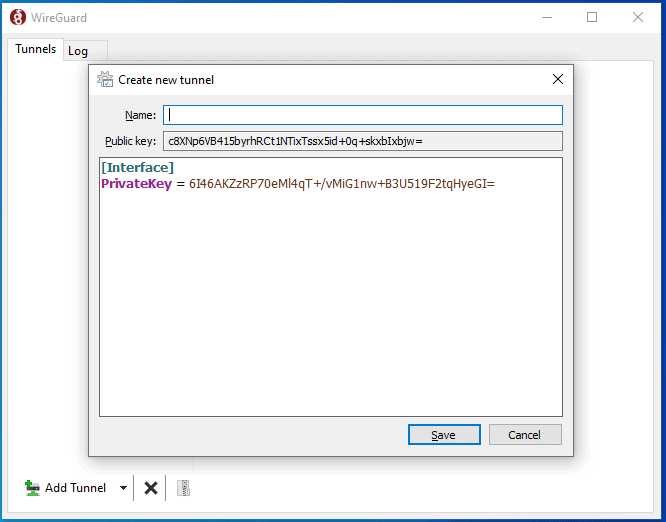
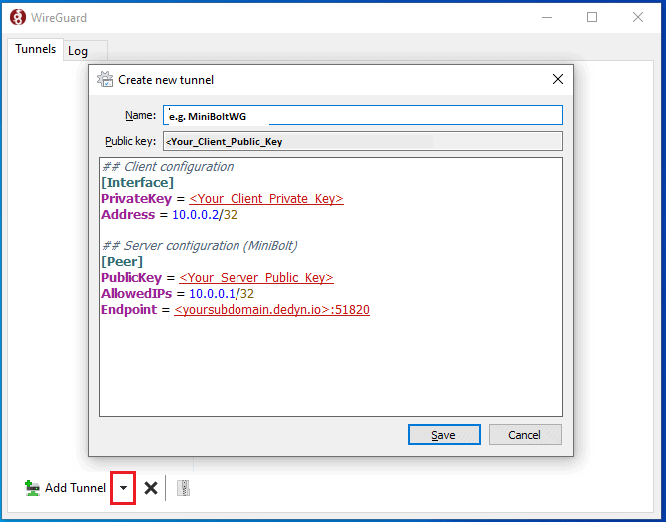
Update

diff --git a/guide/bonus/system/wireguard-VPN.md b/guide/bonus/system/wireguard-VPN.md
@@ -191,7 +191,7 @@ You now have a free domain **(yoursubdomain.dedyn.io)** that always points to yo
 
 Remember to have forwarded the `"51820"` port and the `"UDP"` protocol of your router to the local IP of your MiniBolt, previously indicated in the [prerequisites](#prerequisites) section.
 
-### Install WireGuard VPN
+### Install WireGuard VPN on server
 
 * Update the packages and upgrade to keep up to date the OS
 
@@ -275,6 +275,8 @@ We won't do this on the client because we want it to be able to connect to the V
 
 Start by visiting [WireGuard's installation page](https://www.wireguard.com/install) and download and install the relevant version of WireGuard for your OS.
 Here, we'll assume your client is a Linux desktop OS; because it is the most similar to setting up the server.
+
+### Install Wireguard VPN on client
 
 * On Linux regular computer, for instance, you do this by simply installing the `"Wireguard VPN"` package:
 
@@ -482,7 +484,7 @@ To do that you need install the `qrencode` package on your regular computer with
 
 Now, you can convert the "wg0.conf" file to a QR code like so. 
 
-* Up to root user to create a temporaly root session
+* Change to root user to create a temporaly root session
 
   ```sh
   $ sudo su
@@ -522,7 +524,17 @@ For each additional client, you must install the WireGuard software and you coul
 
 ### Configure Wireguard VPN client on Windows
 
+* Download and install Wireguard [Windows version](https://download.wireguard.com/windows-client/wireguard-installer.exe)
+
+* Hit on the little arrow down on the bottom left and select "Add empty tunnel"
+
 ![Wireguard Windows](../../../images/wireguard-windows.png)
+
+* Paste the entire [Configure Wireguard VPN Client](#configure-wireguard-vpn-client) content of the "wg0.conf" file in the big text box and push on "Save"
+
+* Click on "Activate" to enable the VPN connection
+
+* Test it creating a new SSH connection to MiniBolt for example, with VPN IP address.
 
 ## Configure additional servers
 
@@ -537,10 +549,10 @@ Some routers have support for Dynamic DNS providers like NO-IP or deSEC, out of 
 
 If your router does not have your DDNS provider preconfigured, the configuration procedure will depend on the specific type of router which is why we can't provide a tutorial for all of them. However, most of the time it boils down to entering the following details in your router configuration:
 
-   * Provider: select on the drop-down the name of the provider, e.g. www.no-ip.com
-   * Domain name: subdomain you want to update, e.g. <yoursubdomain.dedyn.io> previously created account on [desec registration](#desec-registration) section.
-   * Username: selected username or email of the previously created account on [desec registration](#desec-registration) section.
-   * Password/Token secret: password selected for your DDNS provider account or Token secret (depending on the provider) previously created account on [desec registration](#desec-registration) section.
+  * Provider: select on the drop-down the name of the provider, e.g. www.no-ip.com
+  * Domain name: subdomain you want to update, e.g. <yoursubdomain.dedyn.io> previously created account on [desec registration](#desec-registration) section.
+  * Username: selected username or email (depending on the provider) of the previously created account on [desec registration](#desec-registration) section.
+  * Password/Token secret: password selected for your DDNS provider account or Token secret (depending on the provider) previously created account on [desec registration](#desec-registration) section.
 
 ---
 
